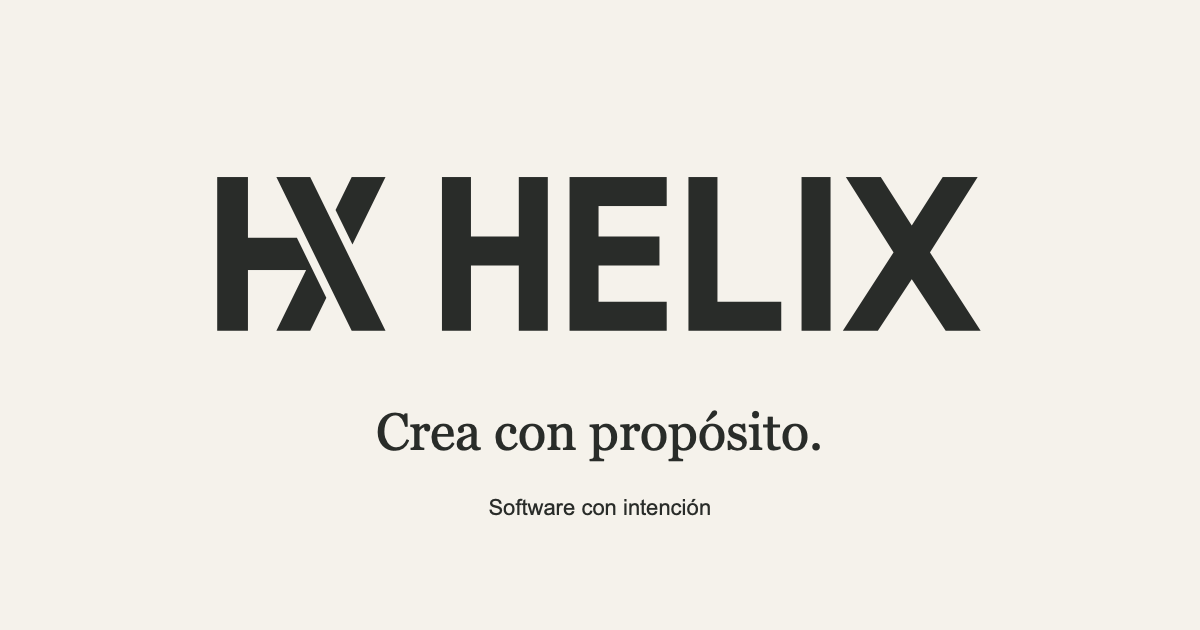
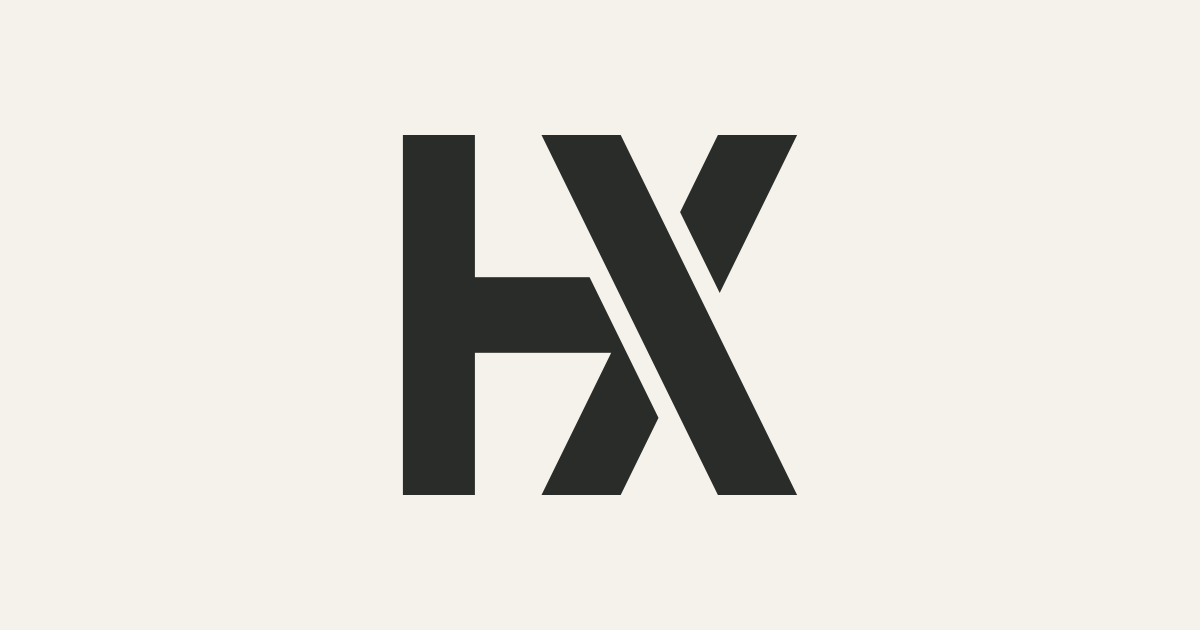
Use HX symbol alone in social preview

Changed region(s): [[0.1542, 0.2111, 0.8325, 0.8143]]

diff --git a/index.html b/index.html
@@ -23,12 +23,12 @@
 <meta property="og:image:type" content="image/png">
 <meta property="og:image:width" content="1200">
 <meta property="og:image:height" content="630">
-<meta property="og:image:alt" content="Símbolo HX y nombre HELIX sobre fondo marfil. Crea con propósito. Software con intención.">
+<meta property="og:image:alt" content="Símbolo HX de Helix en tinta sobre fondo marfil.">
 <meta name="twitter:card" content="summary_large_image">
 <meta name="twitter:title" content="Helix — Crea con propósito">
 <meta name="twitter:description" content="Damos forma a ideas que convierten lo complejo en nuevas posibilidades. Software con intención, desde México.">
 <meta name="twitter:image" content="https://helix.edfloreshz.dev/assets/social-preview.png">
-<meta name="twitter:image:alt" content="Símbolo HX y nombre HELIX sobre fondo marfil. Crea con propósito. Software con intención.">
+<meta name="twitter:image:alt" content="Símbolo HX de Helix en tinta sobre fondo marfil.">
 <link rel="icon" href="assets/icon-32.png" type="image/png" sizes="32x32">
 <link rel="apple-touch-icon" href="assets/icon-180.png" sizes="180x180">
 <link rel="manifest" href="site.webmanifest">
